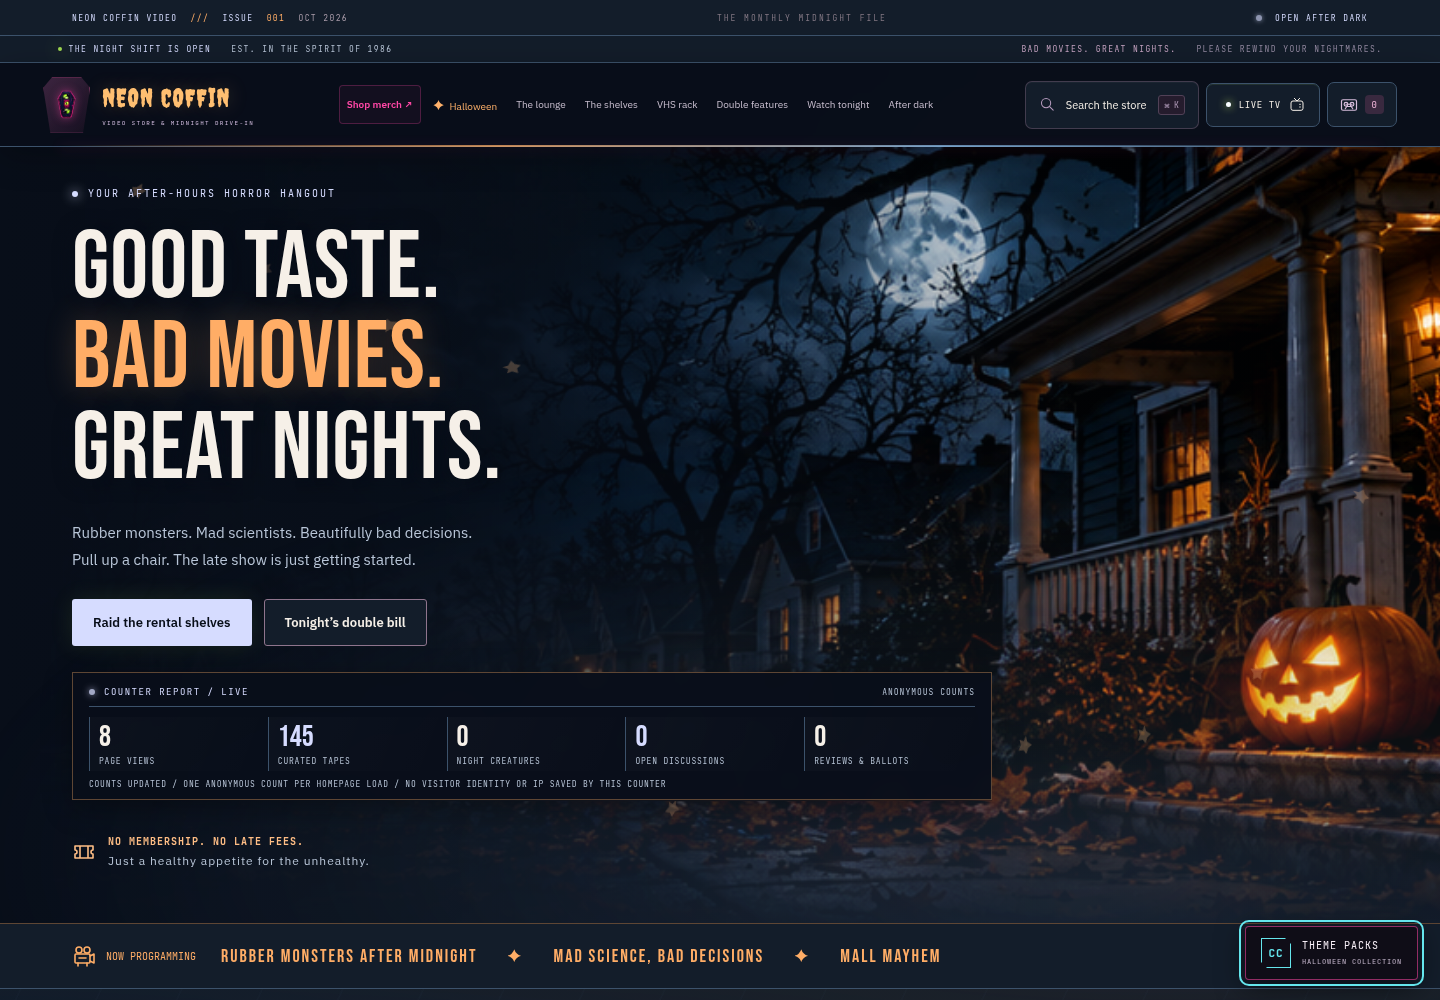
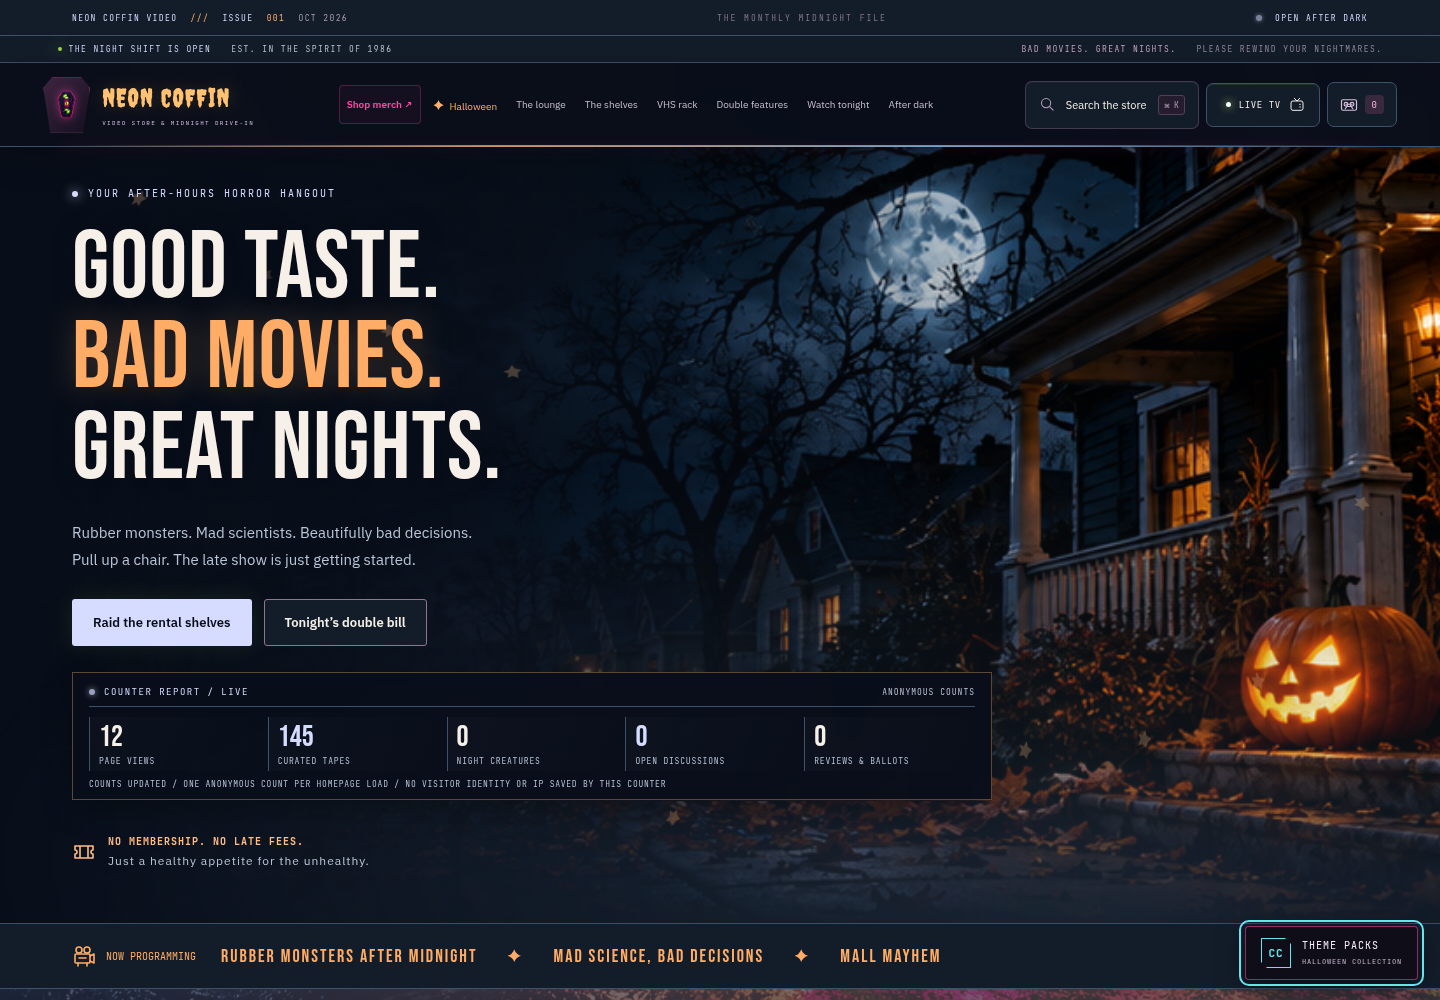
Restore vivid Neon Coffin backdrops to Halloween themes

Changed region(s): [[0.25, 0.992, 1.0, 1.0], [0.0312, 0.992, 0.2188, 1.0], [0.0625, 0.713, 0.0938, 0.744]]

diff --git a/website/theme-packs/themes.css b/website/theme-packs/themes.css
@@ -18,9 +18,9 @@
 [data-halloween-theme] .hero h1{color:var(--white);text-shadow:0 2px 20px var(--bg)}
 [data-halloween-theme] .hero h1 em{color:var(--pink);text-shadow:0 0 32px color-mix(in srgb,var(--pink) 23%,transparent)}
 [data-halloween-theme] .hero-corner,[data-halloween-theme] .storefront-weather,[data-halloween-theme] .storefront-reflection,[data-halloween-theme] #neonParticles{display:none}
-[data-halloween-theme] .midnight-backdrop,[data-halloween-theme] .lounge-backdrop{background:radial-gradient(ellipse at 85% 20%,color-mix(in srgb,var(--pink) 9%,transparent),transparent 55%),linear-gradient(var(--bg),var(--theme-soft))}
-[data-halloween-theme] .midnight-backdrop:after{background:repeating-linear-gradient(115deg,transparent 0 70px,color-mix(in srgb,var(--line) 7%,transparent) 72px,transparent 73px)}
-[data-halloween-theme] .graveyard-fog{background:radial-gradient(ellipse at 20% 45%,color-mix(in srgb,var(--cyan) 15%,transparent),transparent 48%),radial-gradient(ellipse at 75% 60%,color-mix(in srgb,var(--pink) 12%,transparent),transparent 50%)}
+[data-halloween-theme] .midnight-backdrop,[data-halloween-theme] .lounge-backdrop{background:linear-gradient(180deg,color-mix(in srgb,var(--bg) 52%,transparent),color-mix(in srgb,var(--bg) 68%,transparent)),url('../assets/storefront.png') center 58%/cover no-repeat}
+[data-halloween-theme] .midnight-backdrop:after{background:radial-gradient(ellipse at 13% 18%,color-mix(in srgb,var(--pink) 23%,transparent),transparent 48%),radial-gradient(ellipse at 88% 72%,color-mix(in srgb,var(--cyan) 19%,transparent),transparent 48%),linear-gradient(90deg,var(--bg) 0%,transparent 36%,transparent 64%,var(--bg) 100%);mix-blend-mode:screen;opacity:.72}
+[data-halloween-theme] .graveyard-fog{opacity:.8;background:radial-gradient(ellipse at 20% 45%,color-mix(in srgb,var(--cyan) 32%,transparent),transparent 48%),radial-gradient(ellipse at 75% 60%,color-mix(in srgb,var(--pink) 28%,transparent),transparent 50%),radial-gradient(ellipse at 48% 72%,color-mix(in srgb,var(--purple) 25%,transparent),transparent 54%)}
 [data-halloween-theme] .button.green,[data-halloween-theme] .neon-button{background:var(--green);color:var(--bg);border-color:var(--green)}
 [data-halloween-theme] .button.pink{background:var(--pink);color:var(--bg);border-color:var(--pink)}
 [data-halloween-theme] .button.outline,[data-halloween-theme] .filters button,[data-halloween-theme] .crypt-category,[data-halloween-theme] .rotation-pick,[data-halloween-theme] #shelves .film-card{background:var(--panel);color:var(--white);border-color:var(--line)}

diff --git a/docs/halloween-collection/VERIFICATION.md b/docs/halloween-collection/VERIFICATION.md
@@ -1,7 +1,7 @@
 # Halloween Collection — 2026-10-06
 
 Production: https://neoncoffinvideo.site/
-Deployment: https://5abddd51.neoncoffinvideo.pages.dev
+Deployment: https://1d6df40c.neoncoffinvideo.pages.dev
 
 Eight original movie-inspired scene treatments, Cybercore palette adapter, illustrated theme dialog, original reset, persisted preference, URL sharing, atmospheric effects controls and reduced-motion handling. Available on homepage and lounge. Default visitors retain the original Neon Coffin theme; scene atlases load only when needed.
 
@@ -18,3 +18,5 @@ Passed locally and against production:
 Also passed: npm test (counter, community, OAuth mock suite), npm run build, existing footer/film-credit browser regression. All white/muted/primary accent palette pairs on base and panel backgrounds exceed 4.5:1; this is a palette check, not a full accessibility audit. Screenshots in this directory record local design review; production ran the same theme browser checks.
 
 Original art and pack source: website/theme-packs/. Artwork provenance: website/SOURCES.md. Nothing changed in the other network sites or Fourthwall store.
+
+Revision: theme selection now retains the original NCV storefront artwork as a richly tinted site backdrop, with stronger theme-colored light and haze. The film-inspired hero scenes remain layered separately. Updated production deployment: https://1d6df40c.neoncoffinvideo.pages.dev
